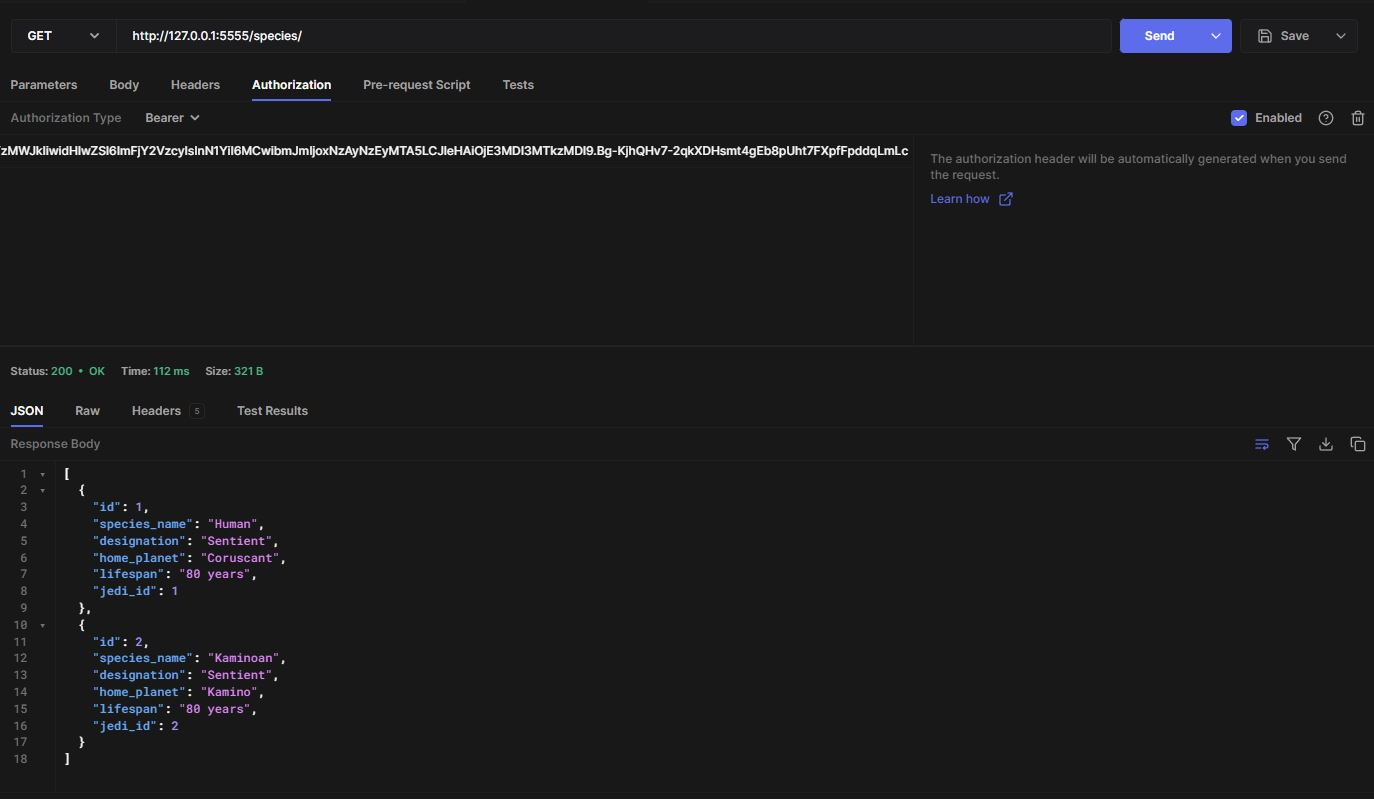
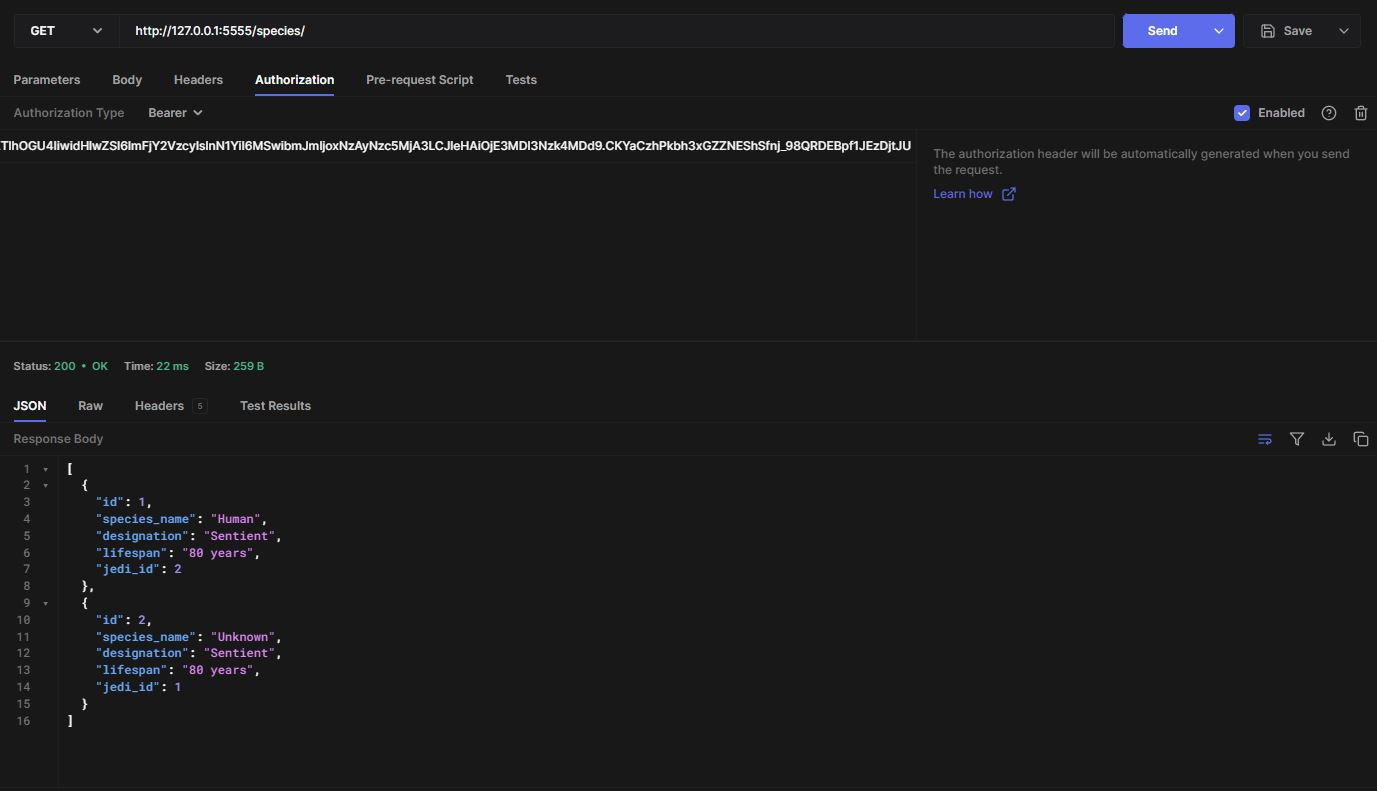
Updated endpoint screenshots and started on R8

diff --git a/src/blueprints/jedi_bp.py b/src/blueprints/jedi_bp.py
@@ -22,16 +22,16 @@ def register():
                 "utf8"
             ),
             jedi_name=jedi_info.get("jedi_name", ""),
-            rank_title=jedi_info.get("rank_title", ""),
-            species_name=jedi_info.get("species", ""),
             current_location=jedi_info.get("current_location", ""),
-            status_title=jedi_info.get("status_title", ""),
+            species_name=jedi_info.get("species_name", ""),
+            rank_title=jedi_info["rank_title"],
+            status_title=jedi_info["status_title"],
         )
 
         db.session.add(jedi)
         db.session.commit()
 
-        return JediSchema(exclude=["access_code"]).dump(jedi), 201
+        return JediSchema(exclude=["access_code", ]).dump(jedi), 201
     except IntegrityError:
         return {"error": "username already in use!"}, 409
 
@@ -42,7 +42,7 @@ def login():
     stmt = db.select(Jedi).where(Jedi.username == jedi_info["username"])
     jedi = db.session.scalar(stmt)
     if jedi and bcrypt.check_password_hash(jedi.access_code, jedi_info["access_code"]):
-        token = create_access_token(identity=jedi.id, expires_delta=timedelta(hours=2))
+        token = create_access_token(identity=jedi.id, expires_delta=timedelta(minutes=10))
         return {
             "token": token,
             "jedi": JediSchema(exclude=["id", "access_code",]).dump(jedi),
@@ -58,9 +58,9 @@ def update_jedi(jedi_name):
     stmt = db.select(Jedi).filter_by(jedi_name=jedi_name) 
     jedi = db.session.scalar(stmt)
     if jedi:
-        master, councilmember(jedi.jedi_name)
+        master, councilmember()
         jedi.current_location = jedi_info.get('current_location', jedi.current_location)
-        jedi.status_title = jedi_info.get('status_title', jedi.status)
+        jedi.status_title = jedi_info.get('status_title', jedi.statuses)
         db.session.commit()
         return JediSchema(only=['jedi_name', 'current_location', 'status_title']).dump(jedi)
     else:
@@ -74,7 +74,7 @@ def update_jedi_rank(jedi_name):
     stmt = db.select(Jedi).filter_by(jedi_name=jedi_name) 
     jedi = db.session.scalar(stmt)
     if jedi:
-        councilmember(jedi.jedi_name)
+        councilmember()
         jedi.rank_title = jedi_info.get('rank_title', jedi.rank_title)
         db.session.commit()
         return JediSchema(only=['jedi_name', 'rank_title']).dump(jedi)
@@ -82,7 +82,7 @@ def update_jedi_rank(jedi_name):
         return {'error': 'Jedi not found'}, 404
 
 # Get one Jedi
-@jedi_bp.route('/<string:jedi_name>')
+@jedi_bp.route('/<string:jedi_name>', methods = ['GET'])
 @jwt_required()
 def one_jedi(jedi_name):
     stmt = db.select(Jedi).filter_by(jedi_name=jedi_name)

diff --git a/src/models/jedi.py b/src/models/jedi.py
@@ -9,31 +9,31 @@ class Jedi(db.Model):
     id = db.Column(db.Integer, primary_key=True)
 
     username = db.Column(db.String, nullable=False, unique=True)
-    jedi_name = db.Column(db.String, nullable=False, unique=True)
     access_code = db.Column(db.String, nullable=False)
+    jedi_name = db.Column(db.String, nullable=False, unique=True)
     current_location = db.Column(db.Text, nullable=False)
     species_name = db.Column(db.String, nullable=False)
     
     rank_title = db.Column(db.String, db.ForeignKey('ranks.title'), nullable=False)
     rank = db.relationship('Rank', back_populates='jedi')
 
-    status_title = db.Column(db.String, db.ForeignKey('status.title'), nullable=False)
-    status = db.relationship('Status', back_populates='jedi')
+    status_title = db.Column(db.String, db.ForeignKey('statuses.title'), nullable=False)
+    statuses = db.relationship('Status', back_populates='jedi')
 
     species = db.relationship('Species', back_populates='jedi')
 
     planets = db.relationship('Planet', back_populates='jedi')
     
 
-# Converts datatypes into JSON  
+# JSON (de)serialization with Marshmallow
 class JediSchema(ma.Schema):
     rank = fields.Nested('RankSchema')
-    status = fields.Nested('StatusSchema')
+    statuses = fields.Nested('StatusSchema')
     username = fields.String(validate=Length(min=6, error = 'Username must be at least 6 characters'))
     access_code = fields.String(validate=Length(min=8, error = 'Access code must be as least 8 characers long'))
     
     class Meta:
-        fields = ("id", "username","access_code", "jedi_name", "species_name", "rank", "current_location", "status",)
+        fields = ("id", "username","access_code", "jedi_name", "current_location", "species_name", "rank_title", "status_title",)
     
 
     

diff --git a/src/blueprints/species_bp.py b/src/blueprints/species_bp.py
@@ -8,7 +8,7 @@ from sqlalchemy.exc import IntegrityError
 species_bp = Blueprint('species',__name__, url_prefix='/species')
 
 # Get all species 
-@species_bp.route("/")
+@species_bp.route("/", methods=['GET'])
 @jwt_required()
 def all_species():
     # select * from species;
@@ -17,7 +17,7 @@ def all_species():
     return SpeciesSchema(many=True).dump(species)
 
 # Get one species
-@species_bp.route('/<string:species_name>')
+@species_bp.route('/<string:species_name>', methods=['GET'])
 @jwt_required()
 def one_species(species_name):
     stmt = db.select(Species).filter_by(species_name=species_name)
@@ -37,7 +37,6 @@ def register_species():
         species = Species(
             species_name = species_info['species_name'],
             designation = species_info.get('designation', ''),
-            home_planet = species_info.get('home_planet', ''),
             lifespan = species_info.get('lifespan', ''),
             jedi_id = get_jwt_identity()
         )
@@ -55,8 +54,7 @@ def update_species(species_name):
     stmt = db.select(Species).filter_by(species_name=species_name)
     species = db.session.scalar(stmt)
     if species:
-        master(species.jedi_id)
-        species.home_planet = species_info.get('home_planet', species.home_planet)
+        master()
         species.designation = species_info.get('designation', species.designation)
         db.session.commit()
         return SpeciesSchema().dump(species)

diff --git a/src/blueprints/planets_bp.py b/src/blueprints/planets_bp.py
@@ -55,9 +55,10 @@ def update_planet(planet_name):
     stmt = db.select(Planet).filter_by(planet_name=planet_name)
     planet = db.session.scalar(stmt)
     if planet:
-        master(planet.jedi_id)
+        master()
         planet.allegiance = planet_info.get('allegiance', planet.allegiance)
-        planet.jedi_assigned = planet_info.get('jedi_assigned', planet.jedi_assigned)
+        planet.population = planet_info.get('population', planet.population)
+        planet.description = planet_info.get('description', planet.description)
         db.session.commit()
         return PlanetSchema().dump(planet)
     else:

diff --git a/src/blueprints/cli_bp.py b/src/blueprints/cli_bp.py
@@ -32,6 +32,7 @@ def db_seed():
 
     db.session.add_all(statuses)
     db.session.commit()
+
     ranks = [
         Rank(
             title = "Councilmember",
@@ -103,7 +104,6 @@ def db_seed():
             sector="Abrion",
             population="1 billion",
             allegiance="Independent",
-            description="Almost entirely covered by sea, the Kaminoans have built a state of the art cloning facility",
             jedi_id = jedi[1].id,
         ),
     ]

diff --git a/src/models/status.py b/src/models/status.py
@@ -3,12 +3,12 @@ from marshmallow import fields
 
 # Creates table structure with column names and data types 
 class Status(db.Model):
-    __tablename__ = 'status'
+    __tablename__ = 'statuses'
 
     title = db.Column(db.String, primary_key=True,)
 
 
-    jedi = db.relationship('Jedi', back_populates= 'status')
+    jedi = db.relationship('Jedi', back_populates= 'statuses')
 
 class StatusSchema(ma.Schema):
 

diff --git a/src/models/rank.py b/src/models/rank.py
@@ -9,6 +9,7 @@ class Rank(db.Model):
     jedi = db.relationship('Jedi', back_populates= 'rank')
 
 
+# JSON (de)serialization with Marshmallow
 class RankSchema(ma.Schema):
 
     class Meta:

diff --git a/README.md b/README.md
@@ -389,65 +389,39 @@ All models in the application have been stored in a dedicated models folder insi
 ### Jedi Model: ###
 
 ```py
-VALID_STATUSES = ('Alive', 'Deceased', 'Unknown')
-VALID_RANKS = ('Councilmember', 'Master', 'Knight')
-
-# Creates table structure with column names and data types 
 class Jedi(db.Model):
     __tablename__ = 'jedi'
 
     id = db.Column(db.Integer, primary_key=True)
 
     username = db.Column(db.String, nullable=False, unique=True)
-    jedi_name = db.Column(db.String, nullable=False, unique=True)
     access_code = db.Column(db.String, nullable=False)
-    rank = db.Column(db.String, nullable=False)
-    species = db.Column(db.String, nullable=False)
-    master = db.Column(db.String)
-    apprentice = db.Column(db.String)
-    current_location = db.Column(db.String, nullable=False)
-    status = db.Column(db.String, nullable=False)
+    jedi_name = db.Column(db.String, nullable=False, unique=True)
+    current_location = db.Column(db.Text, nullable=False)
+    species_name = db.Column(db.String, nullable=False)
+    
+    rank_title = db.Column(db.String, db.ForeignKey('ranks.title'), nullable=False)
+    rank = db.relationship('Rank', back_populates='jedi')
 
-# Converts datatypes into JSON  
+    status_title = db.Column(db.String, db.ForeignKey('statuses.title'), nullable=False)
+    statuses = db.relationship('Status', back_populates='jedi')
+
+    species = db.relationship('Species', back_populates='jedi')
+
+    planets = db.relationship('Planet', back_populates='jedi')
+    
+
+# JSON (de)serialization with Marshmallow
 class JediSchema(ma.Schema):
+    rank = fields.Nested('RankSchema')
+    statuses = fields.Nested('StatusSchema')
     username = fields.String(validate=Length(min=6, error = 'Username must be at least 6 characters'))
     access_code = fields.String(validate=Length(min=8, error = 'Access code must be as least 8 characers long'))
-    status = fields.String(validate=OneOf(VALID_STATUSES))
-    rank = fields.String(validate=OneOf(VALID_RANKS))
     
     class Meta:
-        fields = ("id", "username", "jedi_name", "access_code", "species", "rank", "master", "apprentice","current_location", "status")
+        fields = ("id", "username","access_code", "jedi_name", "current_location", "species_name", "rank_title", "status_title",)
 ```
-
-The Jedi model is the main part of the application as it stores the information required about each individual Jedi. Jedi do not have relationships with the other tables, however the primary key is referenced in the species and planets tables and shows which Jedi was the one who registered them. 
-
-### The Species Model 
-
-```py
-VALID_DESIGNATIONS = ('Sentient' , 'Non-sentient', 'Semi-sentient')
-
-# Creates table structure with column names and data types 
-class Species(db.Model):
-    __tablename__ = 'species'
-
-    id = db.Column(db.Integer, primary_key=True)
-
-    species_name = db.Column(db.String, nullable=False, unique=True)
-    designation = db.Column(db.String, nullable=False)
-    home_planet = db.Column(db.String)
-    lifespan = db.Column(db.String)
-
-    jedi_id = db.Column(db.Integer, db.ForeignKey('jedi.id'), nullable=False)
-
-# Converts datatypes into JSON  
-class SpeciesSchema(ma.Schema):
-    designation = fields.String(validate=OneOf(VALID_DESIGNATIONS))
-
-    class Meta:
-        fields = ('id', 'species_name', 'designation', 'home_planet', 'lifespan', 'jedi', 'jedi_id')
-```
-
-The species model is linked to the Jedi model via a foreign key. This is to track which Jedi registered the planet in the first place. 
+Th Jedi model relates to the Status and Rank models in a one to one relationship. The unique titles of the Rank and Status models is used as a foreign keys. ```db.relationship ``` is set up on both ends of the models which ensures they are both mapped together, the ```back_populates``` argument specifies which column will be linked in the table. The model also relates t
 
 
 ### **R9 - Discuss the database relations to be implemented in your application**
